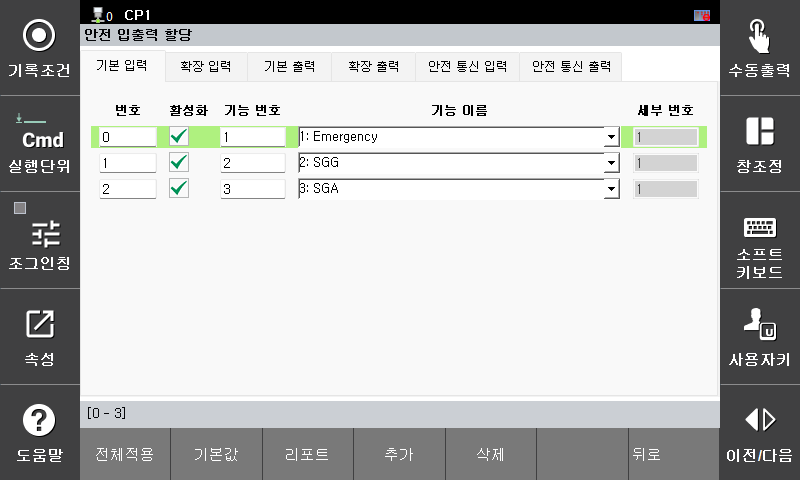
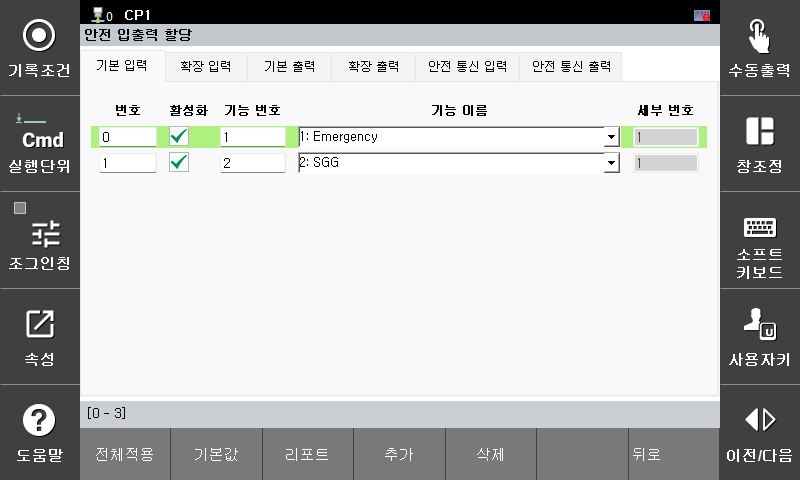
안전입력채널 기본 할당 변경됨

Changed region(s): [[0.375, 0.3438, 0.75, 0.4062], [0.75, 0.375, 0.875, 0.4375], [0.2188, 0.375, 0.25, 0.4062]]

diff --git a/3-safety-function/3-safety-function/4-safety-io/3-Linker.md b/3-safety-function/3-safety-function/4-safety-io/3-Linker.md
@@ -39,7 +39,7 @@
 | :-------: | :------------------------------------------------: |
 | 안전 입력 채널 1 | 외부 비상 정지 입력(Emergency) |
 | 안전 입력 채널 2 | 안전 가드 일반 입력(SGG)| 
-| 안전 입력 채널 3 | 안전 가드 자동 입력(SGA)|
+| 안전 입력 채널 3 | - |
 | 안전 입력 채널 4 | - |
 | 안전 출력 채널 1 | 비상 정지 활성화 상태|
 
